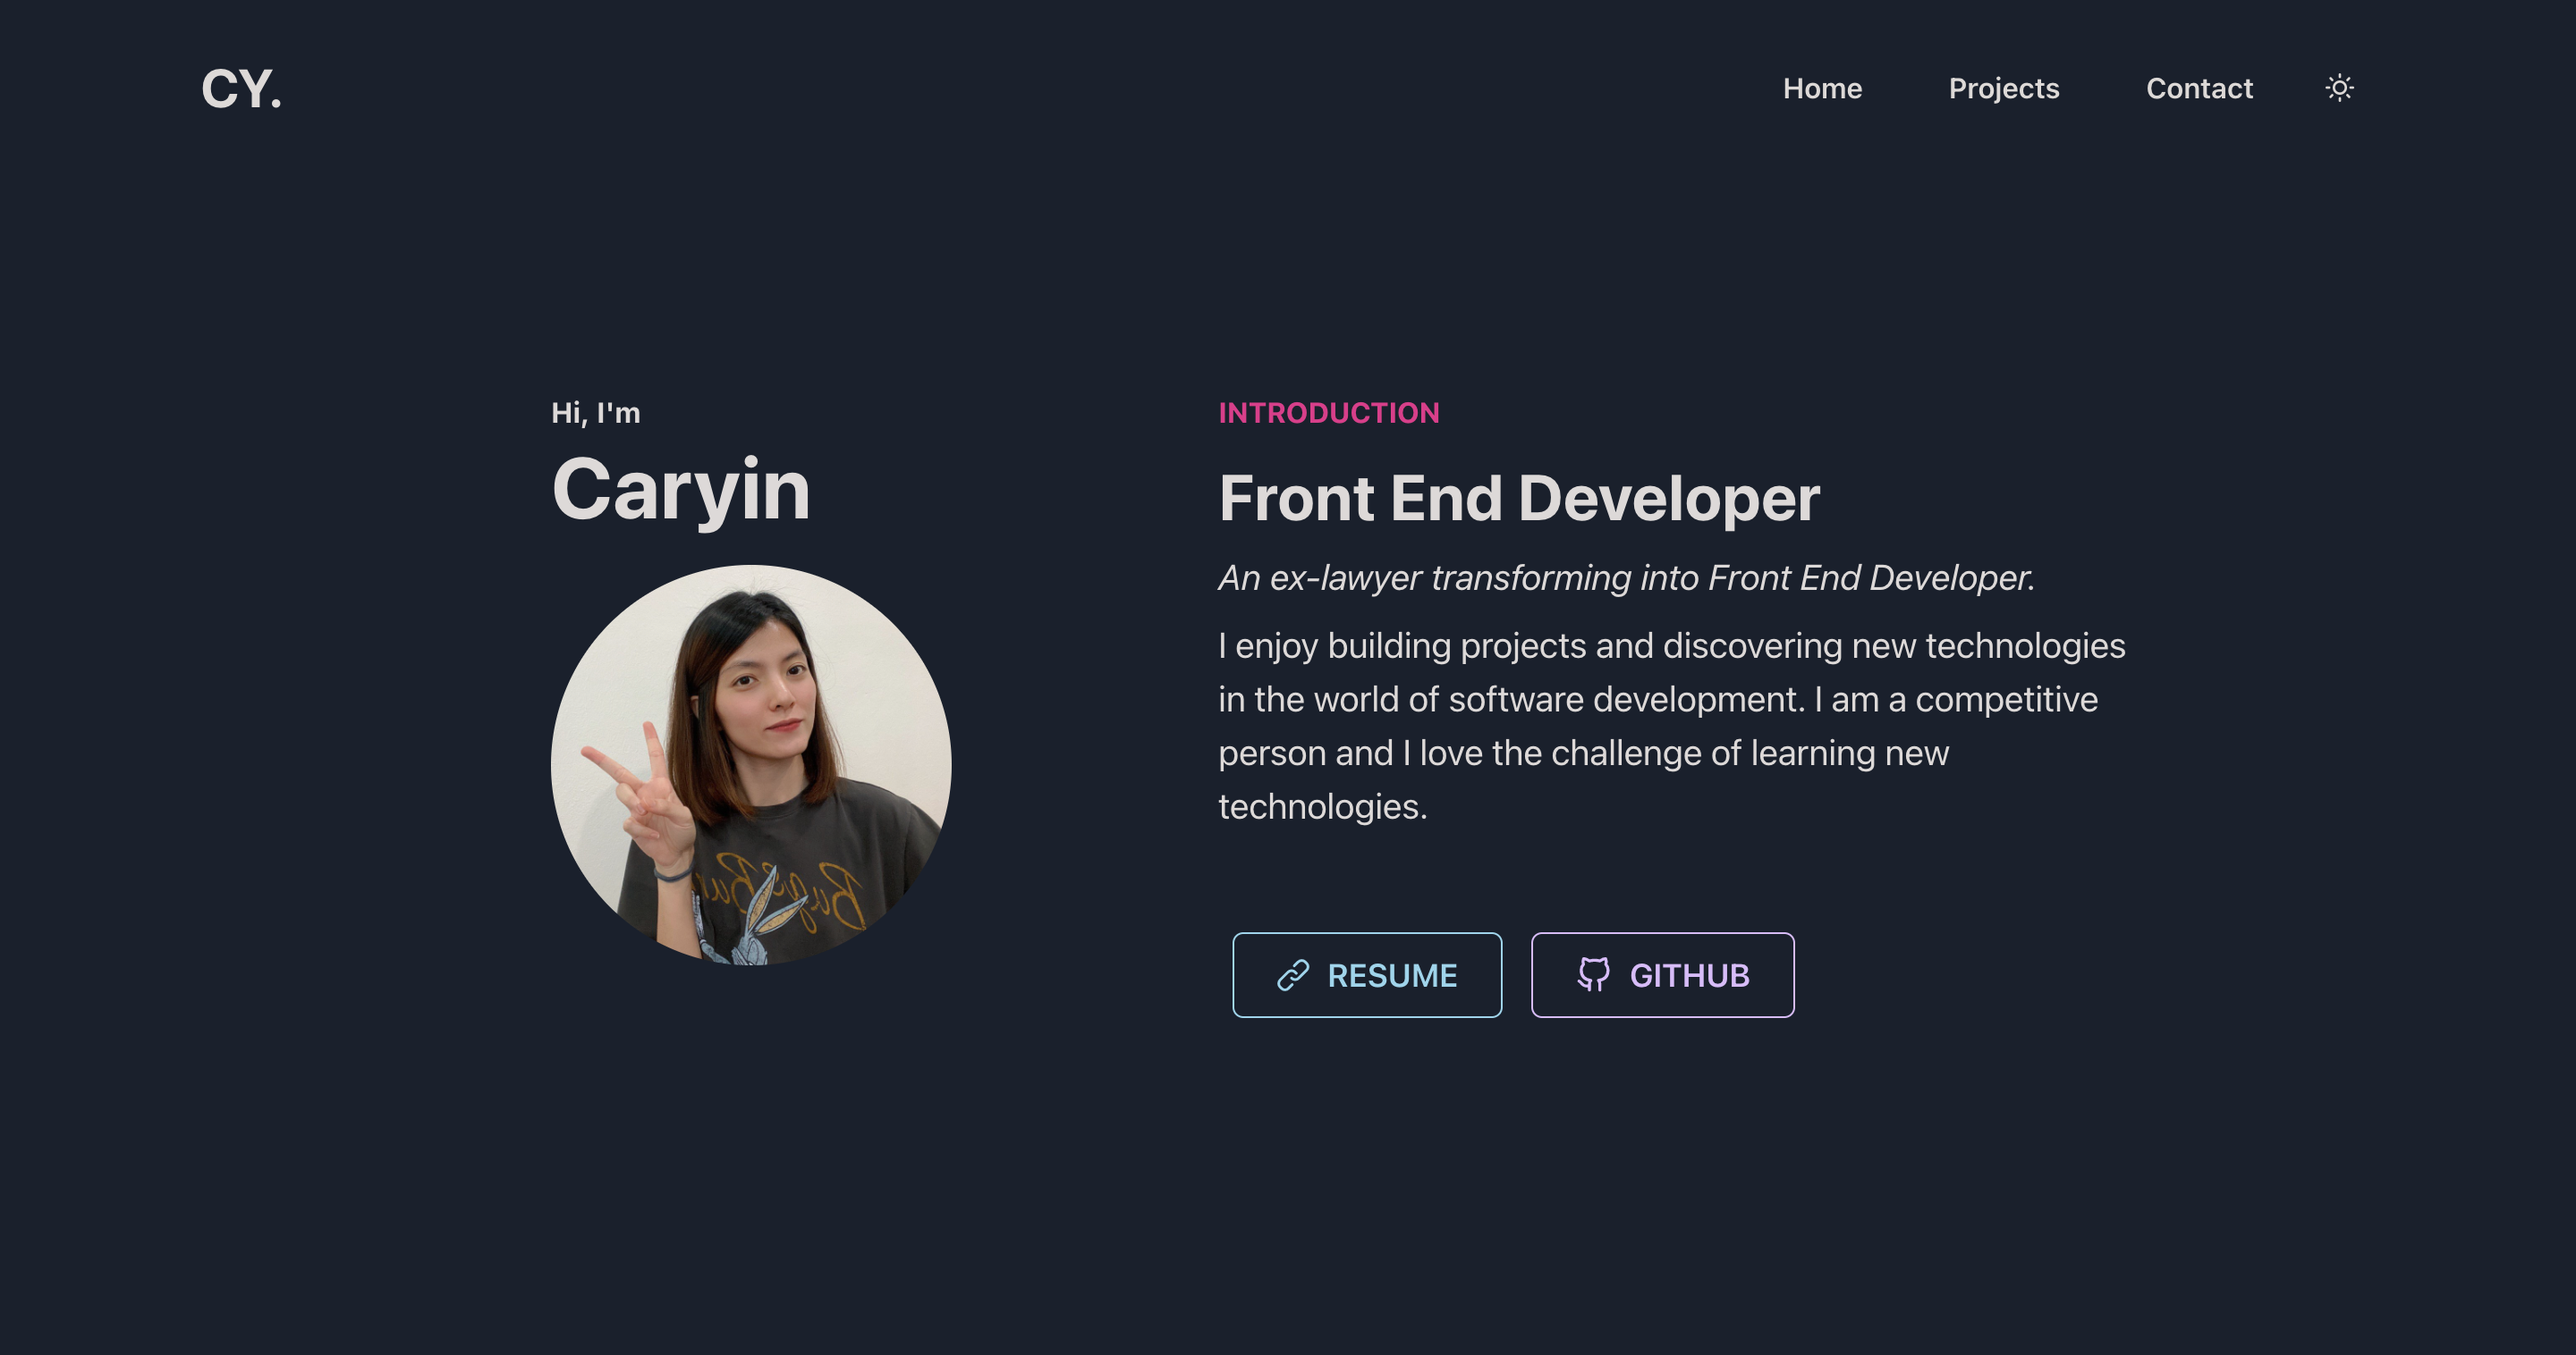
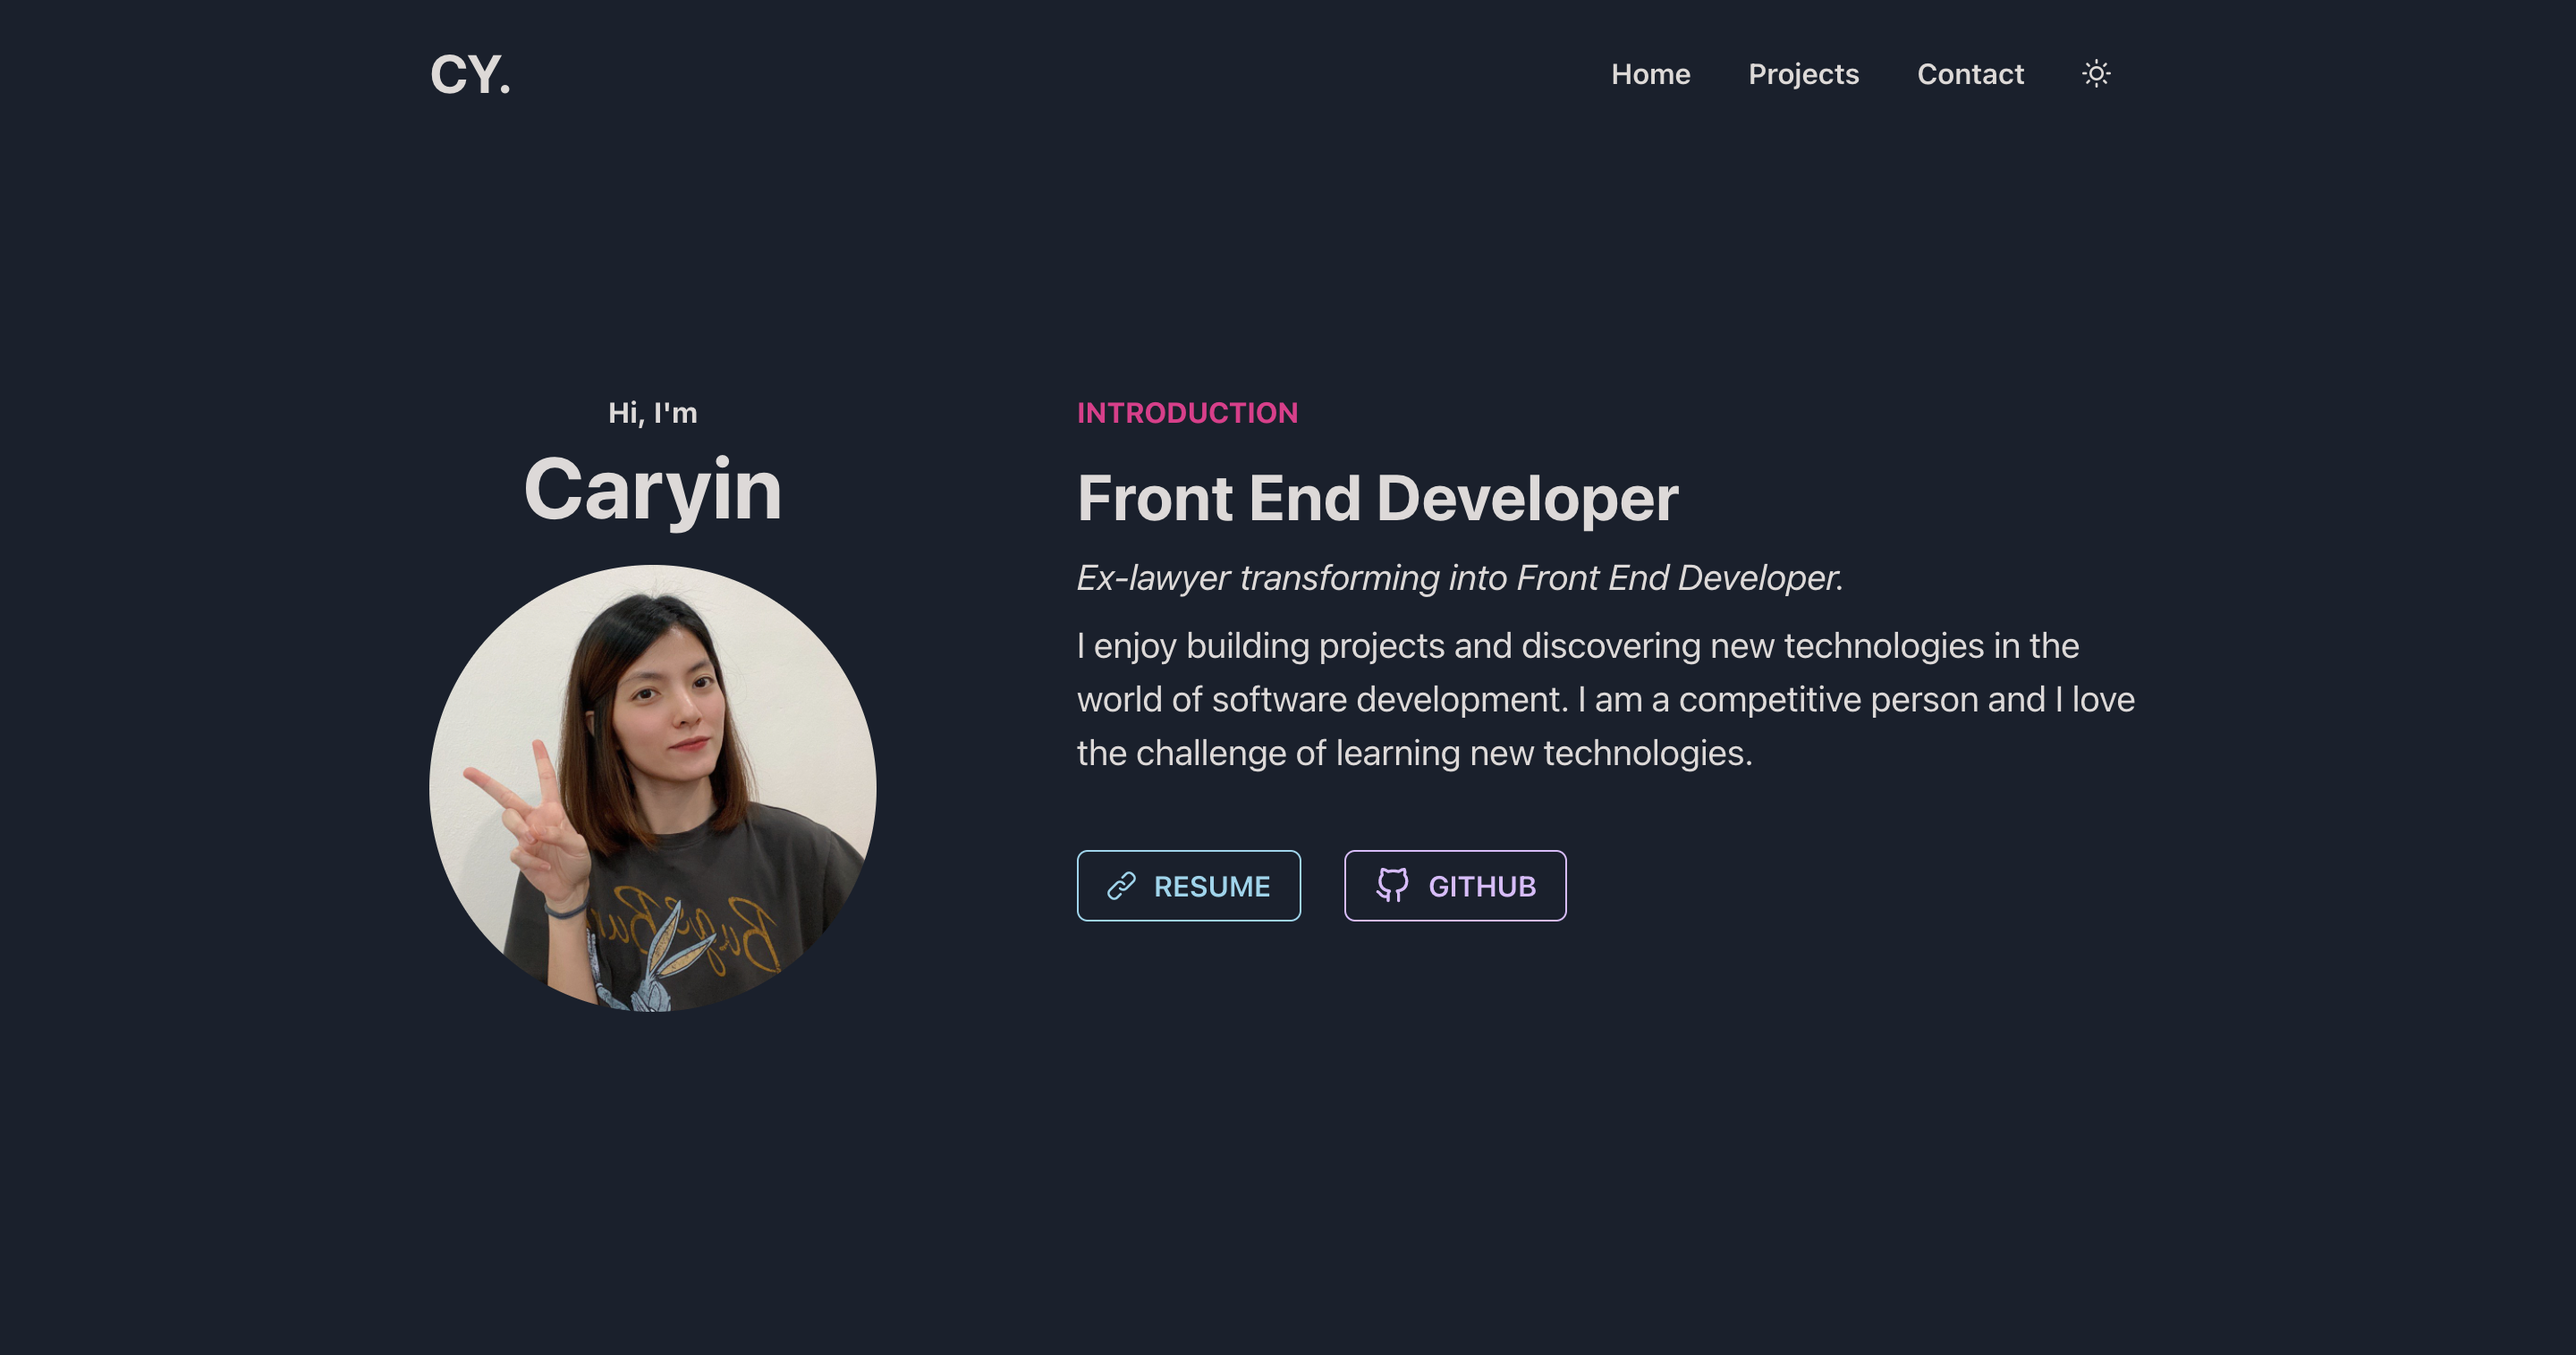
refactor

diff --git a/src/components/MyName.js b/src/components/MyName.js
@@ -7,7 +7,7 @@ import { VStack, Heading, Avatar, useColorModeValue } from '@chakra-ui/react';
 const MyName = () => {
   const fontColor = useColorModeValue('gray.700', 'rgb(221, 217, 216)');
   return (
-    <VStack py={6} pr={[0, 28]}>
+    <VStack py={[2, 6]} pr={[0, 28]}>
       <Heading size='sm' color={fontColor}>
         Hi, I'm
       </Heading>

diff --git a/src/components/NavigationBar.js b/src/components/NavigationBar.js
@@ -19,7 +19,7 @@ const NavigationBar = () => {
   const modeIcon = useColorModeValue(<MoonIcon />, <SunIcon />);
 
   return (
-    <HStack justifyContent='space-between' px={[0, 4]} py={2}>
+    <HStack justifyContent='space-between' px={[0, 4]} py={[2, 4]}>
       <Heading size='lg' color={fontColor}>
         CY.
       </Heading>

diff --git a/src/components/HomePage.js b/src/components/HomePage.js
@@ -11,7 +11,7 @@ const HomePage = () => {
       px={[0, 4, 4]}
       direction={{ base: 'column', sm: 'row' }}
       id='home'
-      py={[2, 10, 16]}
+      py={[2, 10, 28]}
     >
       <MyName />
       <Introduction />
